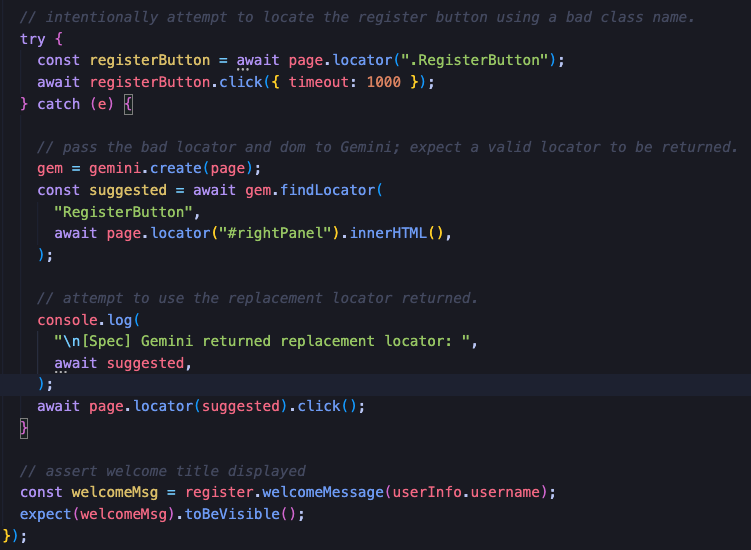
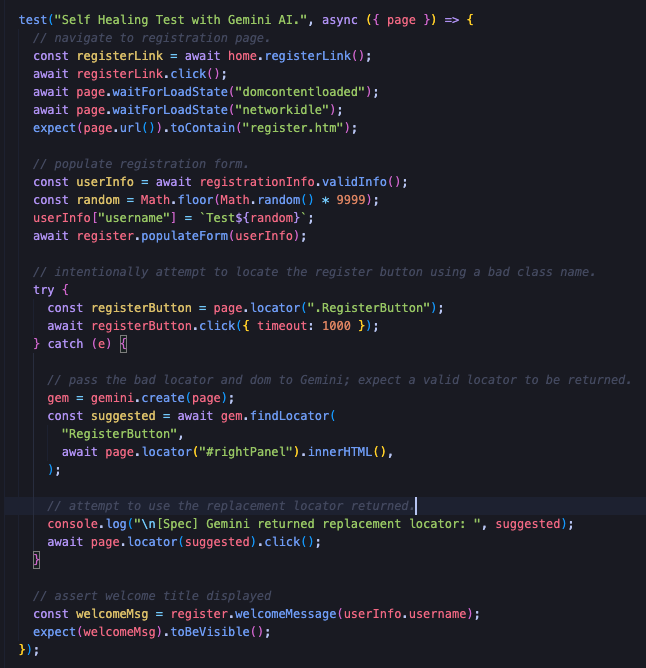
about

diff --git a/docs/index.html b/docs/index.html
@@ -56,13 +56,12 @@
           <div class="post-card-copy">            
            <h2>About Me</h2>
           
-          Hi, I'm Jose—a Quality Engineer, SDET, and Test Automation Engineer with over 21 years of experience in the software industry.
+          Hi, I'm Jose— a Quality Engineer, SDET, and Test Automation Engineer with over 21 years of experience in the software industry.
           I'm passionate about exploring emerging technologies, frameworks, and development practices to discover how they can improve 
           software quality and accelerate test automation.
-          
-          
-            <br>  <br>
-          This site is where I share hands-on tutorials, experiments, and practical insights...
+          <br>  <br>
+          This is a space where I experiment with LLM's, Test Automation and other emerging technologies aimed at accelerating quality processes...
+       
             <a class="read-more-link" href="./posts/about.html">Read more</a>
         </div>
         </div>
